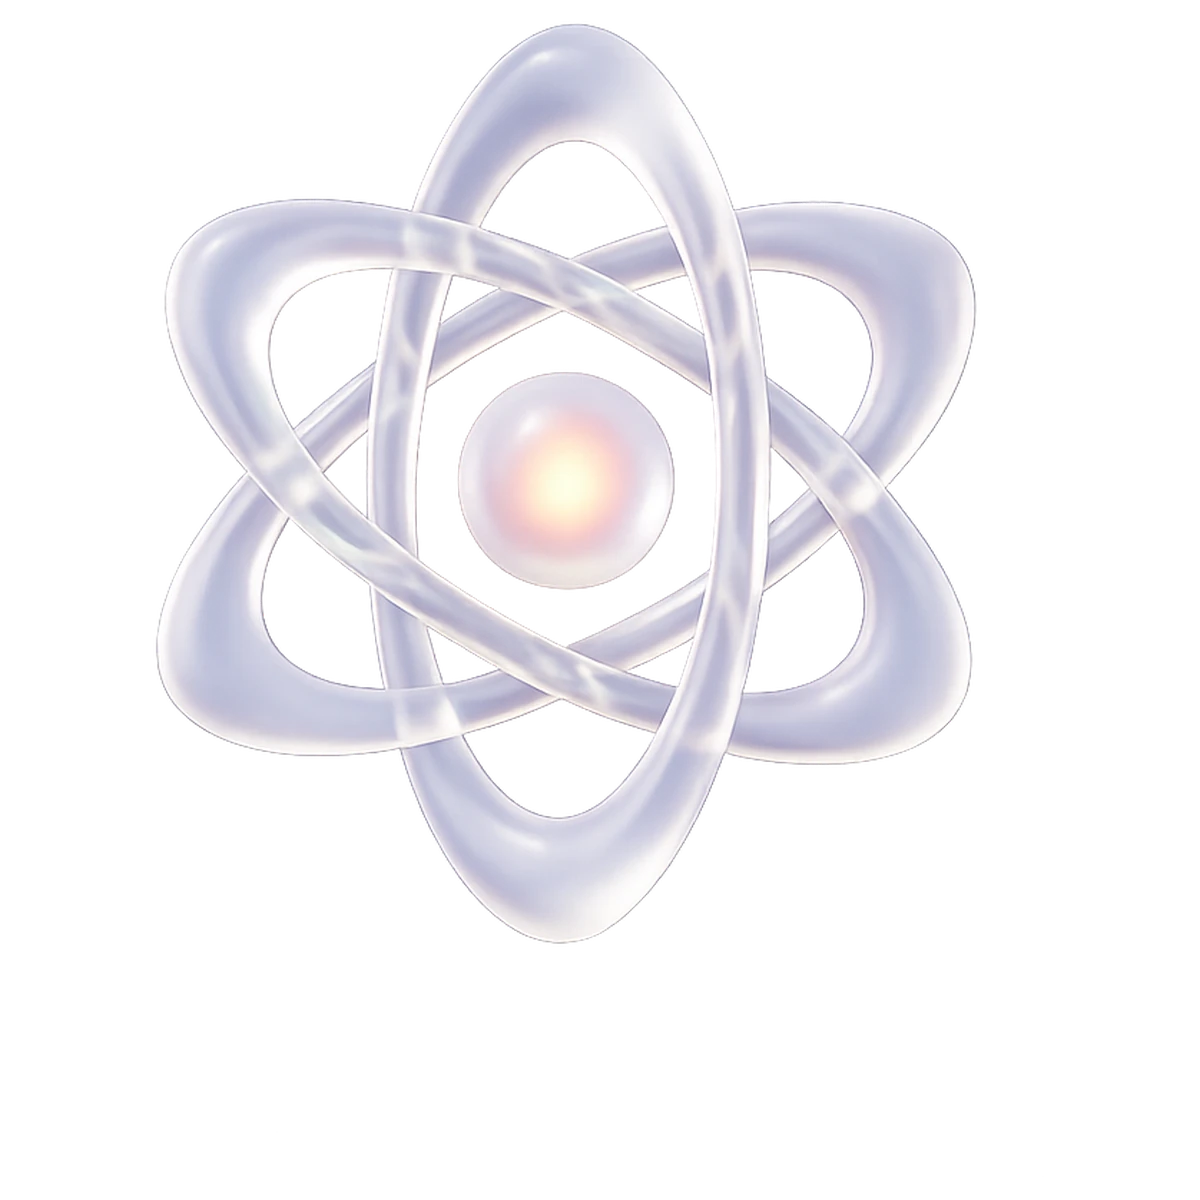
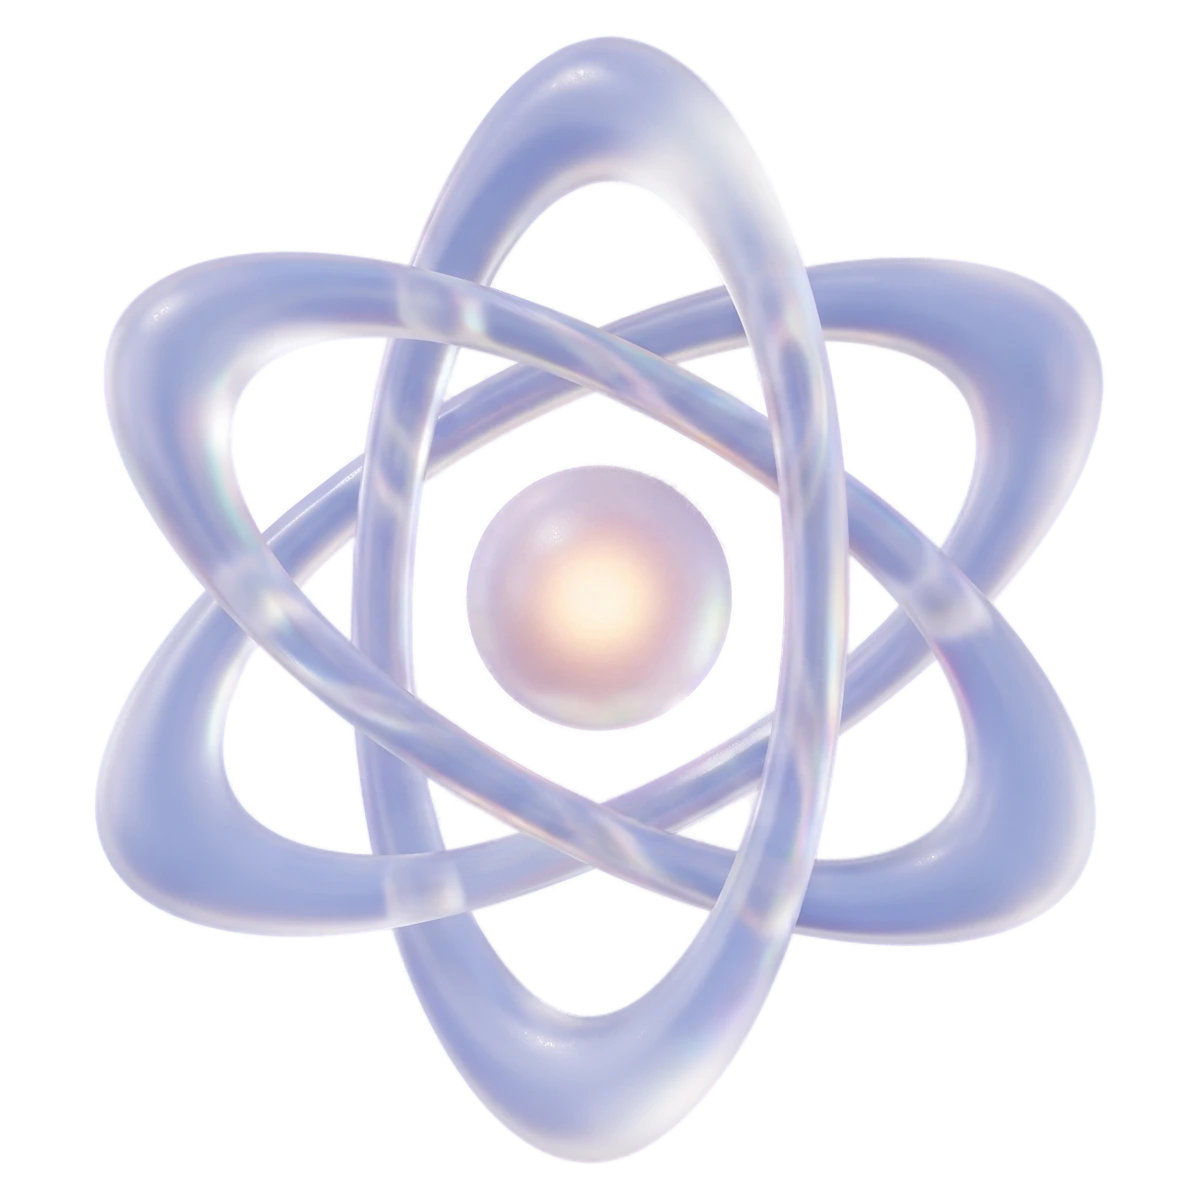
파비콘을 accent atom 으로 교체 + 원본 마스터 확보
기존 파비콘은 본체 앱 로고(frontend/public/atom-logo.png)를 그대로 복사한
것이었는데 16px 에서 뿌연 얼룩이 됐다. 반투명 유리 재질이라 축소하면
형태가 뭉개지고, 밝은 탭 배경에서는 거의 사라진다.

accent atom 으로 바꿨다. 같은 원자인데 궤도가 또렷해 16px 에서도 형태가
읽힌다 — 밝은 탭·어두운 탭·사파리 회색 셋 다 확인했다.

소스를 두 번 갈아탔다. accent 폴더의 "Background Removed" 판본은 atom 만
1024 라(다른 8종은 2048) 트림하면 854px 이 돼 1024 를 못 만든다. 배경이
남아 있는 2048 원본을 rembg 로 직접 떠서 1360px 마스터를 확보했다.

atom-master.png(1360) 를 원본으로 두고 1024·512·180·32 파생. 히어로
atom.webp 도 이 2K 기준으로 다시 구웠다(197KB → 152KB, 화질은 올라가고
용량은 내려갔다 — 이전 것이 1024 소스에서 확대된 상태였다).

nav 로고도 같은 파일을 쓴다.

diff --git a/frontend/landing/index.html b/frontend/landing/index.html
@@ -5,7 +5,9 @@
 <meta name="viewport" content="width=device-width, initial-scale=1, viewport-fit=cover">
 <title>한종철 통합과학</title>
 <meta name="description" content="통합과학도 철두철미하게. 한종철 통합과학.">
-<link rel="icon" href="assets/logo/atom-logo.png">
+<link rel="icon" type="image/png" sizes="32x32" href="assets/logo/atom-32.png">
+<link rel="icon" type="image/png" sizes="512x512" href="assets/logo/atom-512.png">
+<link rel="apple-touch-icon" href="assets/logo/atom-180.png">
 <!-- SUIT 가변 — 본체 앱(frontend/index.html)과 같은 서체로 간다.
      가변이라 100~900을 한 파일로 쓰고, 헤드라인은 900까지 밀어붙인다. -->
 <link rel="preconnect" href="https://cdn.jsdelivr.net" crossorigin>
@@ -213,7 +215,7 @@
 
 <nav class="nav">
   <a class="brand" href="/">
-    <img src="assets/logo/atom-logo.png" alt="">
+    <img src="assets/logo/atom-180.png" alt="">
     한종철 통합과학 LMS
   </a>
   <a class="login" href="/student/login">로그인</a>
